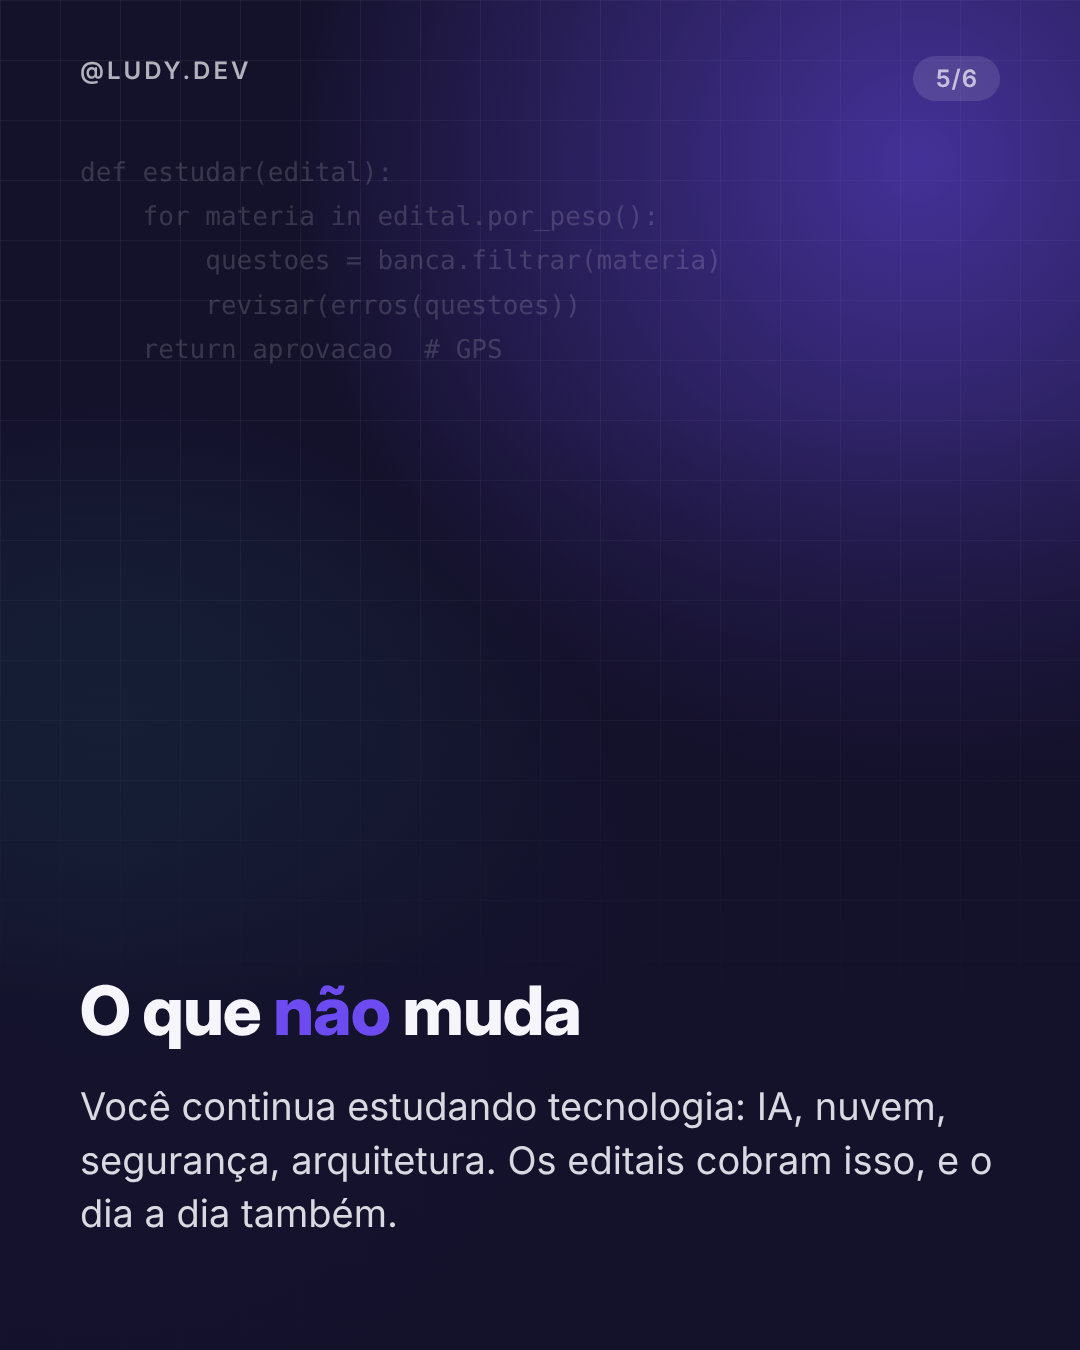
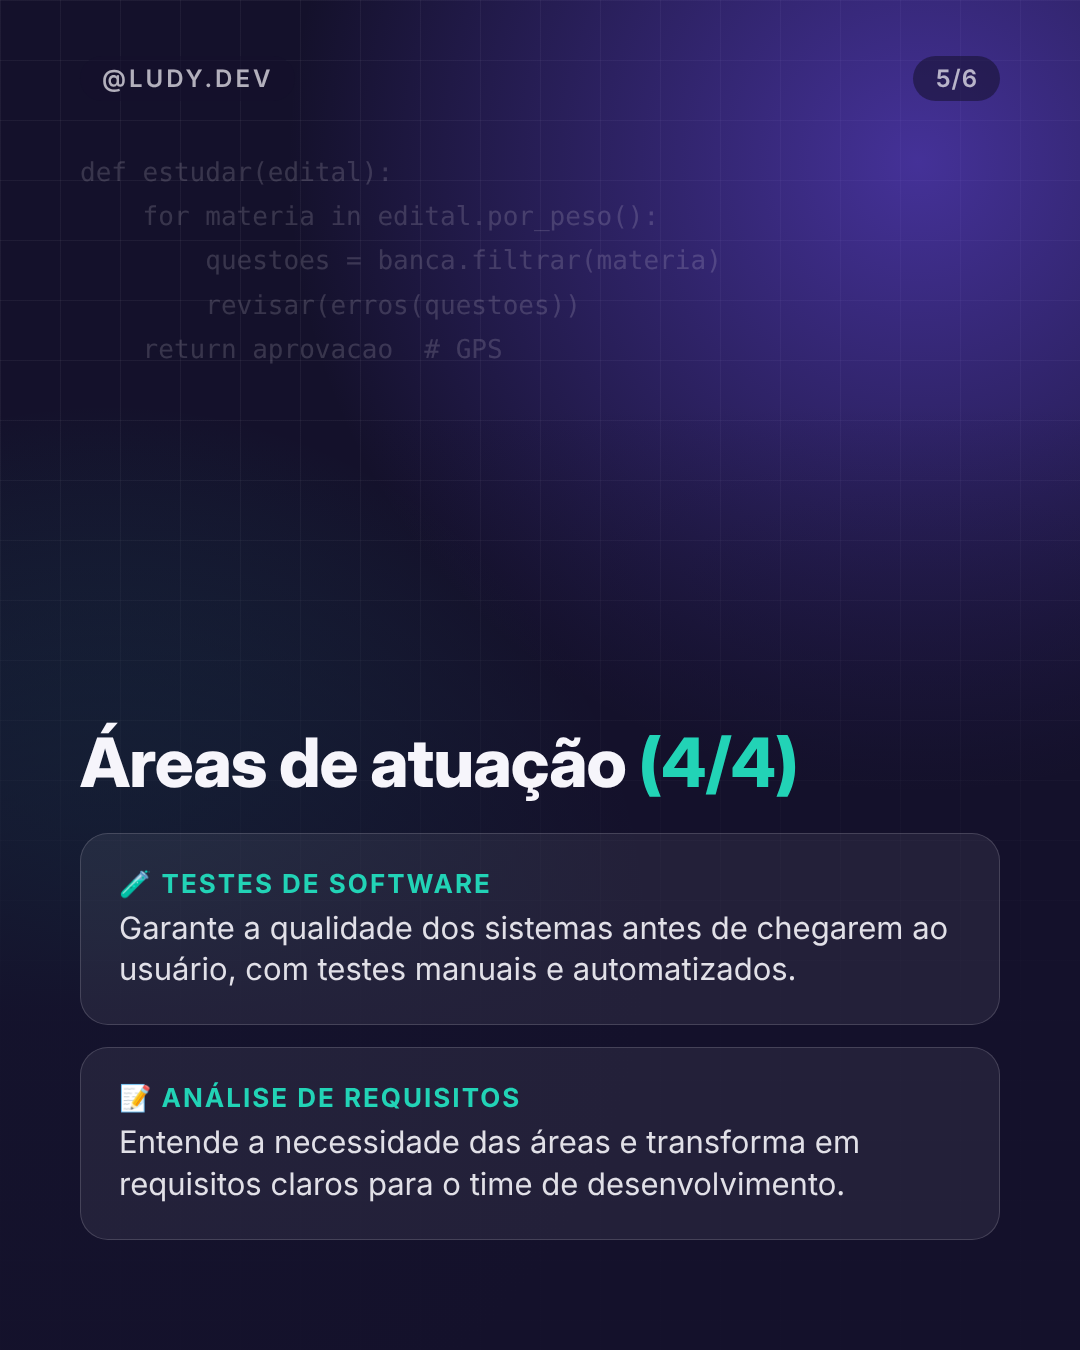
Ajustes: destaque no aviso da live, CTA de seguir e carrossel de áreas de TI em tribunal
Claude-Session: https://claude.ai/code/session_01PAmMNyTervBqrWDZUP7Uz7

diff --git a/_ferramentas/posts.py b/_ferramentas/posts.py
@@ -13,15 +13,17 @@ p1 = [
  page_a('<h2>Quer um <span class="c">plano</span> pra chegar pronta(o)?</h2><p>É pra isso que existe o método <b>GPS</b>. Comenta <b class="c">NORTE</b> que eu te mando o link do meu grupo no WhatsApp.</p>', 6, T1),
 ]
 
-# POST 2 — carrossel estilo A (17h): TI em tribunal
+# POST 2 — carrossel estilo A: áreas de atuação de TI em um tribunal (agendado para 21/10)
+def area(icon, nome, desc):
+    return f'<div class="card"><div class="k">{icon} {nome}</div><div class="d" style="font-size:31px;color:rgba(246,245,251,.9)">{desc}</div></div>'
 T2 = 6
 p2 = [
- page_a(badge() + '<h1>Como é trabalhar com <span class="c">TI</span> em um <span class="v">tribunal</span>?</h1><div class="sub">O que ninguém te conta antes de escolher esse caminho →</div>', 1, T2, photo="fotos/estudo-noite-canva.png"),
- page_a('<h2>Primeiro: <span class="c">não</span> é só "dar suporte"</h2><p>Tribunal é órgão com <b>muito sistema</b>: processo eletrônico, portais, bases de dados, integrações. Tudo isso precisa de gente de TI.</p>', 2, T2),
- page_a('<h2>As frentes de trabalho</h2><div class="card"><div class="t">Desenvolvimento</div><div class="d">sistemas internos e serviços pro cidadão</div></div><div class="card"><div class="t">Infra e cloud</div><div class="d">servidores, redes, alta disponibilidade</div></div><div class="card"><div class="t">Segurança e dados</div><div class="d">proteção da informação, LGPD, BI</div></div>', 3, T2),
- page_a('<h2>O que muda em relação à iniciativa privada</h2><p>Projetos de <b>longo prazo</b>, rotina mais previsível e a chance de construir carreira sem trocar de empresa a cada 2 anos.</p>', 4, T2),
- page_a('<h2>O que <span class="v">não</span> muda</h2><p>Você continua estudando tecnologia: IA, nuvem, segurança, arquitetura. Os editais cobram isso, e o dia a dia também.</p>', 5, T2),
- page_a('<h2>Quer seguir esse caminho com um <span class="c">plano</span>?</h2><p>Foi o método <b>GPS</b> que me levou até aqui. Comenta <b class="c">TRIBUNAL</b> que eu te mando o link do meu grupo no WhatsApp.</p>', 6, T2),
+ page_a(badge() + '<h1>Onde trabalha quem é de <span class="c">TI</span> em um <span class="v">tribunal</span>?</h1><div class="sub">Não é só suporte. Conheça as áreas de atuação →</div>', 1, T2, photo="fotos/estudo-noite-canva.png"),
+ page_a('<h2>Áreas de atuação <span class="c">(1/4)</span></h2>' + area("🛠","Suporte de TI","Atende servidores e magistrados no dia a dia: equipamentos, acessos, sistemas e incidentes.") + area("📋","Gerenciamento de projetos","Planeja e acompanha projetos de tecnologia: prazos, custos, riscos e entregas.") , 2, T2),
+ page_a('<h2>Áreas de atuação <span class="c">(2/4)</span></h2>' + area("🧭","Governança de TI","Alinha a tecnologia aos objetivos do órgão: planejamento, contratações, políticas e indicadores.") + area("🔐","Segurança da informação","Protege dados e sistemas: gestão de riscos, controle de acessos, resposta a incidentes e LGPD.") , 3, T2),
+ page_a('<h2>Áreas de atuação <span class="c">(3/4)</span></h2>' + area("🌐","Redes e infraestrutura","Mantém servidores, redes, data center e nuvem funcionando com alta disponibilidade.") + area("💻","Desenvolvimento de sistemas","Cria e mantém os sistemas usados pelo órgão e pelos cidadãos.") , 4, T2),
+ page_a('<h2>Áreas de atuação <span class="c">(4/4)</span></h2>' + area("🧪","Testes de software","Garante a qualidade dos sistemas antes de chegarem ao usuário, com testes manuais e automatizados.") + area("📝","Análise de requisitos","Entende a necessidade das áreas e transforma em requisitos claros para o time de desenvolvimento.") , 5, T2),
+ page_a('<h2>Qual dessas áreas é a <span class="c">sua cara</span>?</h2><p>Me conta nos comentários.</p><div class="card"><div class="t">Me siga para mais dicas de concursos e carreira de TI.</div></div>', 6, T2),
 ]
 
 # POST 3 — carrossel estilo B tweet (19h): 5 erros
@@ -33,7 +35,7 @@ p3 = [
  page_b('<span class="tag">ERRO 3</span><h2>Ignorar a banca</h2><p>Cada banca tem um estilo. Certo/errado é um jogo, múltipla escolha é outro. Treine no formato da sua prova.</p>', 4, T3),
  page_b('<span class="tag">ERRO 4</span><h2>Deixar as matérias "de fora da TI" pro final</h2><p>Português e legislação eliminam muita gente boa em TI. Elas entram no ciclo desde o primeiro dia.</p>', 5, T3),
  page_b('<span class="tag">ERRO 5</span><h2>Não revisar</h2><p>Sem revisão programada, você estuda o mesmo assunto três vezes do zero. Revisão é o que transforma hora estudada em ponto.</p>', 6, T3),
- page_b('<h2>Estudar muito não é o mesmo que estudar <span class="v">na direção certa</span>.</h2><div class="box">É isso que o método <b>GPS</b> resolve.<br>Comenta <b>GPS</b> que eu te mando o link do meu grupo no WhatsApp.</div>', 7, T3),
+ page_b('<h2>Estudar muito não é o mesmo que estudar <span class="v">na direção certa</span>.</h2><div class="box">Me siga para mais dicas de <b>concursos</b> e <b>carreira de TI</b>.</div>', 7, T3),
 ]
 
 render(p1, OUT + "/post-1")

diff --git a/_ferramentas/mentoria_1910.py b/_ferramentas/mentoria_1910.py
@@ -34,8 +34,9 @@ p3 = [page_a(badge() + """
 # POST 4 — 9h (Brasília) · imagem única · estilo A (foto da Ludy): aviso de data e horário da live
 p4 = [page_a(badge() + """
 <h1>Hoje tem <span class="c">live</span></h1>
-<div class="card"><div class="k">Segunda-feira, 19/10</div><div class="t">20h · horário de Brasília</div>
-<div class="d">Exclusiva para o grupo VIP · as 3 coisas que mais atrasam a aprovação, dicas de estudo e tudo sobre a Mentoria Individual GPS</div></div>
+<div style="font-family:'Inter Display';font-weight:800;font-size:46px;line-height:1.15;color:#22D3B6;margin:26px 0 6px">As 3 coisas que mais atrasam sua aprovação em concurso</div>
+<div class="card"><div class="k">Segunda-feira, 19/10 · 20h, horário de Brasília</div>
+<div class="d">Apenas para o grupo VIP. Dicas de estudo e tudo sobre a Mentoria Individual com o método GPS.</div></div>
 <div class="sub">Comenta <b style="color:#22D3B6">GPS</b> e entra no grupo para receber o link.</div>
 """, photo="fotos/ludy-bracos-cruzados-clara.jpg")]
 
